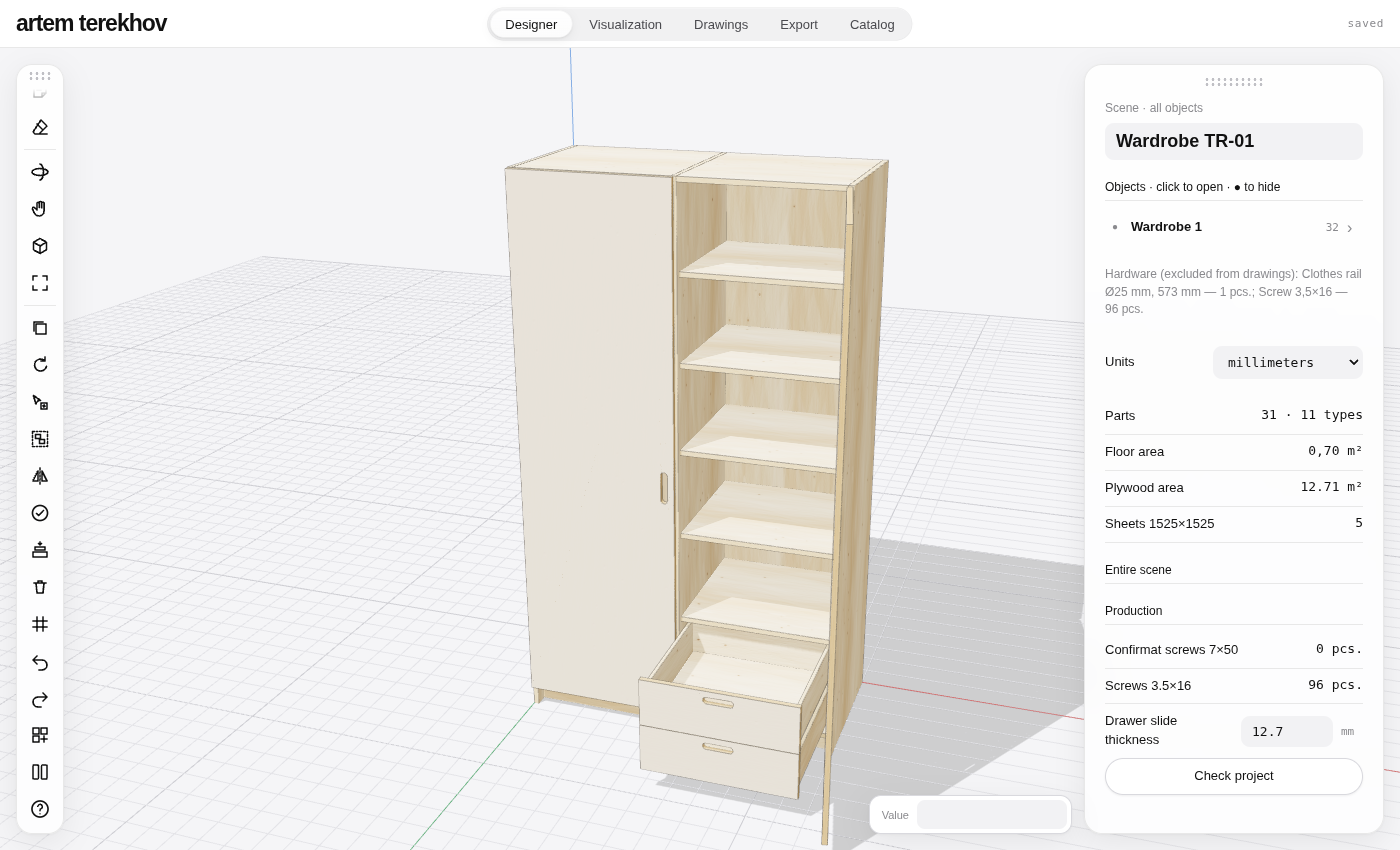
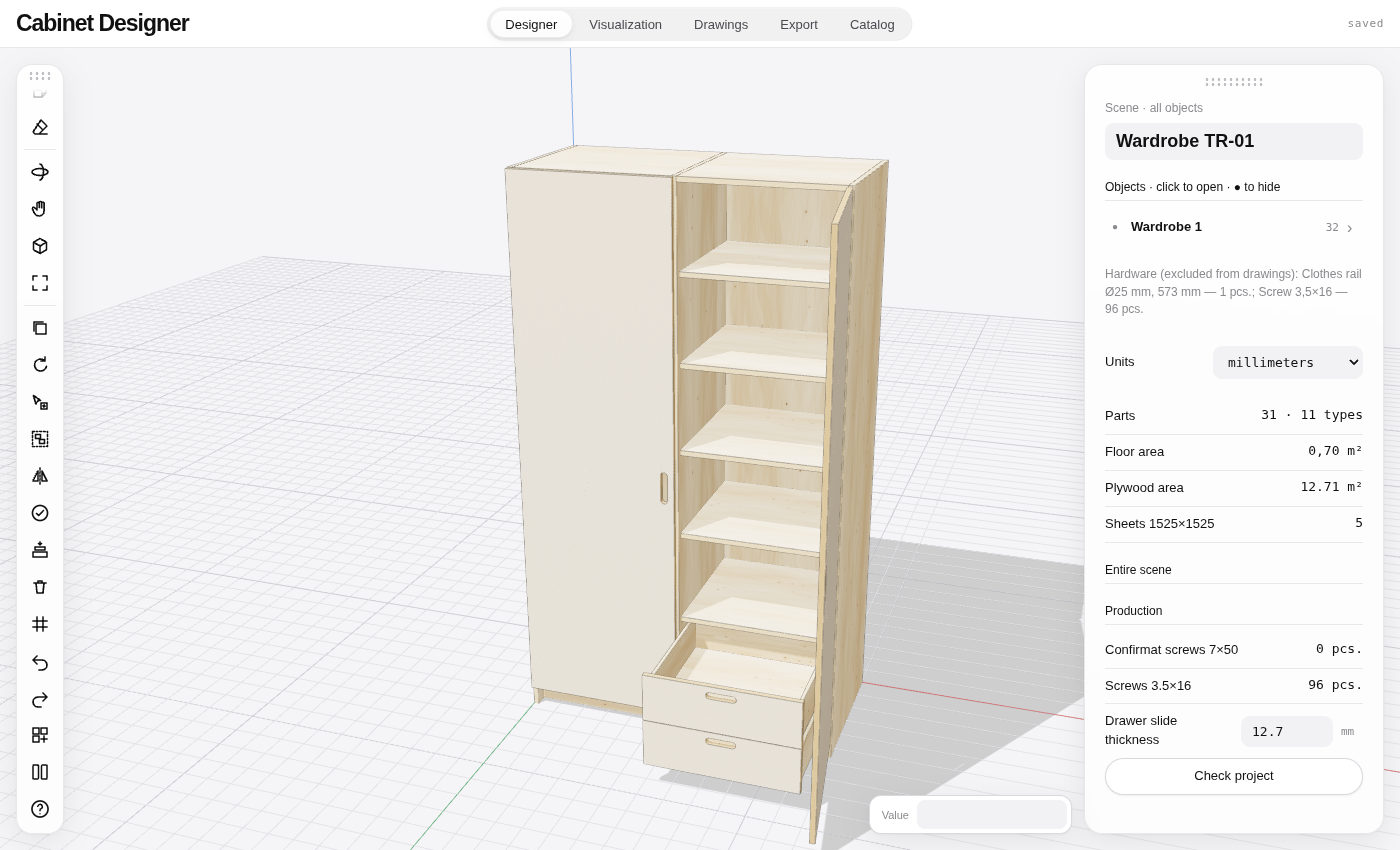
Remove personal branding from cabinet designer

diff --git a/index.html b/index.html
@@ -5,7 +5,7 @@
 <meta name="viewport" content="width=device-width,initial-scale=1,viewport-fit=cover">
 </head>
 <body>
-<title>Artem Terekhov Bureau</title>
+<title>Cabinet Designer</title>
 <meta name="claude:viewport-fit-sides" content="cover">
 <link rel="preconnect" href="https://fonts.googleapis.com">
 <link rel="preconnect" href="https://fonts.gstatic.com" crossorigin>
@@ -286,9 +286,9 @@ div.cf{grid-template-columns:1fr 2fr}.cseg{grid-template-columns:repeat(auto-fit
 
 <div class="app">
 <header>
-  <div class="brand" aria-label="artem terekhov">
+  <div class="brand" aria-label="Cabinet Designer">
 
-    <span class="wm">artem terekhov</span>
+    <span class="wm">Cabinet Designer</span>
   </div>
   <nav aria-label="Sections">
     <a href="#build" data-v="build">Designer</a>
@@ -2416,9 +2416,9 @@ function buildDrawing(forFile,nestOnly){const P=BRD();if(!P.length)return{svg:`<
   if(OV.length){oy+=rowH+k*1.5;rowH=0;OV.forEach(t=>{o.push(Tx(fx,oy,k*.9,'⚠ '+t,'s'));oy+=k*1.5})}
   secClose(oy+rowH-k*1.5);oy+=rowH+G*.4;
   if(nestOnly){o.push(Tx(fx,oy,k*1.1,'Parts','mh'));oy+=k*1.8;parts.forEach(pt=>{o.push(`<rect x="${f1(fx)}" y="${f1(oy-k*.9)}" width="${f1(k*1.1)}" height="${f1(k*1.1)}" style="fill:${NPAL[(pt.no-1)%NPAL.length]};stroke:#999"/>`,Tx(fx+k*1.7,oy,k*.9,`${pt.no} — ${pt.names.join(', ')} · ${pt.L} × ${pt.W} × ${pt.T} mm · ${MATS[pt.mat].short} · ${pt.qty} pcs.`,'s'));oy+=k*1.5});oy+=k*2}
-  const tw=k*26,th=k*8.4,tx=Math.max(ex-tw,fx),dt=new Date().toLocaleDateString('ru-RU');
+  const tw=k*26,th=k*8.4,tx=Math.max(ex-tw,fx),dt=new Date().toLocaleDateString('en-US');
   o.push(`<rect class="tb" x="${f1(tx)}" y="${f1(oy)}" width="${f1(tw)}" height="${f1(th)}"/><line class="tb" x1="${f1(tx)}" y1="${f1(oy+k*3)}" x2="${f1(tx+tw)}" y2="${f1(oy+k*3)}"/><line class="tb" x1="${f1(tx+tw*.55)}" y1="${f1(oy+k*3)}" x2="${f1(tx+tw*.55)}" y2="${f1(oy+th)}"/>`);
-  o.push(Tx(tx+k,oy+k*2,k*1.3,'artem terekhov','h'),Tx(tx+k,oy+k*4.8,k*.95,state.name,'s'),Tx(tx+k,oy+k*6.6,k*.8,`Parts: ${BRD().length}`,'s'),Tx(tx+tw*.55+k,oy+k*4.8,k*.8,'Dimensions in mm','s'),Tx(tx+tw*.55+k,oy+k*6.6,k*.8,dt,'s'));
+  o.push(Tx(tx+k,oy+k*2,k*1.3,'Cabinet Designer','h'),Tx(tx+k,oy+k*4.8,k*.95,state.name,'s'),Tx(tx+k,oy+k*6.6,k*.8,`Parts: ${BRD().length}`,'s'),Tx(tx+tw*.55+k,oy+k*4.8,k*.8,'Dimensions in mm','s'),Tx(tx+tw*.55+k,oy+k*6.6,k*.8,dt,'s'));
   oy+=th;ex=Math.max(ex,tx+tw);
   {const Wd=ex+k*4;for(let i=SEC.length-1;i>=0;i--){const S=SEC[i];if(S.y1==null)continue;o.splice(S.i,0,`<rect class="secbg" x="${f1(-k*1.6)}" y="${f1(S.y0-k*2.8)}" width="${f1(Wd)}" height="${f1(S.y1-S.y0+k*2.8)}" rx="${f1(k*1.2)}"/>`)}}
   const box=[-k*2,-k*3,ex+k*6,oy+k*5];
@@ -2466,11 +2466,11 @@ function toDAE(){const mats=Object.entries(MATS);let geo='',nodes='';
     geo+=`<geometry id="g${i}" name="${esc(p.name)}"><mesh><source id="g${i}-p"><float_array id="g${i}-pa" count="24">${c}</float_array><technique_common><accessor source="#g${i}-pa" count="8" stride="3"><param name="X" type="float"/><param name="Y" type="float"/><param name="Z" type="float"/></accessor></technique_common></source><source id="g${i}-n"><float_array id="g${i}-na" count="18">${NRM.flat().join(' ')}</float_array><technique_common><accessor source="#g${i}-na" count="6" stride="3"><param name="X" type="float"/><param name="Y" type="float"/><param name="Z" type="float"/></accessor></technique_common></source><vertices id="g${i}-v"><input semantic="POSITION" source="#g${i}-p"/></vertices><triangles material="m_${p.mat}" count="12"><input semantic="VERTEX" source="#g${i}-v" offset="0"/><input semantic="NORMAL" source="#g${i}-n" offset="1"/><p>${tri}</p></triangles></mesh></geometry>`;
     nodes+=`<node id="n${i}" name="${esc(p.name)}_${thick(p)}mm"><instance_geometry url="#g${i}"><bind_material><technique_common><instance_material symbol="m_${p.mat}" target="#m_${p.mat}"/></technique_common></bind_material></instance_geometry></node>`});
   return`<?xml version="1.0" encoding="utf-8"?>
-<COLLADA xmlns="http://www.collada.org/2005/11/COLLADASchema" version="1.4.1"><asset><contributor><authoring_tool>Artyom Terekhov Bureau</authoring_tool></contributor><unit name="millimeter" meter="0.001"/><up_axis>Y_UP</up_axis></asset>
+<COLLADA xmlns="http://www.collada.org/2005/11/COLLADASchema" version="1.4.1"><asset><contributor><authoring_tool>Cabinet Designer</authoring_tool></contributor><unit name="millimeter" meter="0.001"/><up_axis>Y_UP</up_axis></asset>
 <library_effects>${mats.map(([k,m])=>`<effect id="e_${k}"><profile_COMMON><technique sid="c"><lambert><diffuse><color>${m.col.join(' ')} 1</color></diffuse></lambert></technique></profile_COMMON></effect>`).join('')}</library_effects>
 <library_materials>${mats.map(([k,m])=>`<material id="m_${k}" name="${k}"><instance_effect url="#e_${k}"/></material>`).join('')}</library_materials>
 <library_geometries>${geo}</library_geometries><library_visual_scenes><visual_scene id="s" name="${esc(state.name)}">${nodes}</visual_scene></library_visual_scenes><scene><instance_visual_scene url="#s"/></scene></COLLADA>`}
-function toOBJ(){let s='# Artyom Terekhov Bureau · mm\nmtllib model.mtl\n',vi=1;BRD().forEach(p=>{s+=`o ${p.name.replace(/\s/g,'_')}_${p.id}\nusemtl ${p.mat}\n`;cornersMM(p).forEach(c=>s+=`v ${c.join(' ')}\n`);FACES.forEach(f=>s+=`f ${f.map(i=>i+vi).join(' ')}\n`);vi+=8});
+function toOBJ(){let s='# Cabinet Designer · mm\nmtllib model.mtl\n',vi=1;BRD().forEach(p=>{s+=`o ${p.name.replace(/\s/g,'_')}_${p.id}\nusemtl ${p.mat}\n`;cornersMM(p).forEach(c=>s+=`v ${c.join(' ')}\n`);FACES.forEach(f=>s+=`f ${f.map(i=>i+vi).join(' ')}\n`);vi+=8});
   return{obj:s,mtl:Object.entries(MATS).map(([k,m])=>`newmtl ${k}\nKd ${m.col.join(' ')}\n`).join('\n')}}
 function dxf(lines,texts){let s='0\nSECTION\n2\nHEADER\n9\n$INSUNITS\n70\n4\n0\nENDSEC\n0\nSECTION\n2\nENTITIES\n';
   lines.forEach(([x1,y1,x2,y2,l])=>s+=`0\nLINE\n8\n${l}\n10\n${x1}\n20\n${y1}\n30\n0\n11\n${x2}\n21\n${y2}\n31\n0\n`);texts.forEach(([x,y,h,t,l])=>s+=`0\nTEXT\n8\n${l}\n10\n${x}\n20\n${y}\n30\n0\n40\n${h}\n1\n${t}\n`);return s+'0\nENDSEC\n0\nEOF\n'}
@@ -2482,18 +2482,18 @@ function detailsDXF(){const L=[],T=[];let x=0;partsList().forEach(p=>{L.push(...
 function nestDXF(){const L=[],T=[];let y=0;nestAll().forEach(g=>g.sheets.forEach((s,i)=>{L.push(...rectL(0,y,g.SW,g.SH,'SHEET'));T.push([0,y+g.SH+30,30,`${g.T}mm ${tr[g.mat]} sheet ${i+1}/${g.sheets.length}`,'TEXT']);
   s.parts.forEach(p=>{const py=y+g.SH-p.y-p.h;L.push(...rectL(p.x,py,p.w,p.h,'CUT'));T.push([p.x+10,py+10,Math.min(30,p.h/3),`D${p.no}`,'TEXT'])});y+=g.SH+200}));return dxf(L,T)}
 function toRuby(){const C=(x,y,z)=>`Geom::Point3d.new(${r4(x)}.mm,${r4(-z)}.mm,${r4(y)}.mm)`;const col={birch:[226,205,164],oiled:[214,174,122],black:[42,40,38]};
-  let rb=`# artem terekhov — model for SketchUp: ${state.name}\n# SketchUp → Window → Ruby Console → load 'path/to/model.rb', then File → Save As .skp\nmodel=Sketchup.active_model\nmodel.start_operation('artem terekhov',true)\nents=model.active_entities\nmats={}\n`;
-  Object.entries(MATS).forEach(([k,m])=>{rb+=`mats['${k}']=(model.materials['AT ${m.short}']||model.materials.add('AT ${m.short}'))\nmats['${k}'].color=Sketchup::Color.new(${col[k].join(',')})\n`});
-  rb+=`def at_face(ents,pts,out)\n  f=ents.add_face(pts)\n  f.reverse! if f.normal.dot(out)<0\n  f\nend\n`;
+  let rb=`# Cabinet Designer — model for SketchUp: ${state.name}\n# SketchUp → Window → Ruby Console → load 'path/to/model.rb', then File → Save As .skp\nmodel=Sketchup.active_model\nmodel.start_operation('Cabinet Designer',true)\nents=model.active_entities\nmats={}\n`;
+  Object.entries(MATS).forEach(([k,m])=>{rb+=`mats['${k}']=(model.materials['Cabinet ${m.short}']||model.materials.add('Cabinet ${m.short}'))\nmats['${k}'].color=Sketchup::Color.new(${col[k].join(',')})\n`});
+  rb+=`def cabinet_face(ents,pts,out)\n  f=ents.add_face(pts)\n  f.reverse! if f.normal.dot(out)<0\n  f\nend\n`;
   const OUT={x:'Geom::Vector3d.new(1,0,0)',y:'Geom::Vector3d.new(0,0,1)',z:'Geom::Vector3d.new(0,-1,0)'};
   BRD().forEach(p=>{const n=p.name.replace(/'/g,"\\'");rb+=`g=ents.add_group\ng.name='${n} ${thick(p)}mm'\ne=g.entities\n`;
-    rb+=`f=at_face(e,[${C(p.x,p.y,p.z)},${C(p.x+p.w,p.y,p.z)},${C(p.x+p.w,p.y,p.z+p.d)},${C(p.x,p.y,p.z+p.d)}],Geom::Vector3d.new(0,0,-1))\nf.pushpull(-${r4(p.h)}.mm)\n`;
+    rb+=`f=cabinet_face(e,[${C(p.x,p.y,p.z)},${C(p.x+p.w,p.y,p.z)},${C(p.x+p.w,p.y,p.z+p.d)},${C(p.x,p.y,p.z+p.d)}],Geom::Vector3d.new(0,0,-1))\nf.pushpull(-${r4(p.h)}.mm)\n`;
     (p.feat||[]).filter(f=>Math.abs(f.depth)>0.01).forEach(f=>{const [u,v]=AX.filter(q=>q!==f.a),T=p[SZ[f.a]],F=f.s>0?p[f.a]+T:p[f.a];const P=(uu,vv)=>{const o={};o[u]=p[u]+uu;o[v]=p[v]+vv;o[f.a]=F;return C(o.x,o.y,o.z)};
-      const out=f.s>0?OUT[f.a]:OUT[f.a]+'.reverse';rb+=f.c?`ed=e.add_circle(${P((f.u0+f.u1)/2,(f.v0+f.v1)/2)},${OUT[f.a]},${r4((f.u1-f.u0)/2)}.mm,48)\nf=ed[0].faces.min_by{|x|x.area}\nf.reverse! if f.normal.dot(${out})<0\nf.pushpull(`:`f=at_face(e,[${P(f.u0,f.v0)},${P(f.u1,f.v0)},${P(f.u1,f.v1)},${P(f.u0,f.v1)}],${out})\nf.pushpull(${f.depth>0?'-':''}${r4(Math.min(Math.abs(f.depth),T))}.mm)\n`});
+      const out=f.s>0?OUT[f.a]:OUT[f.a]+'.reverse';rb+=f.c?`ed=e.add_circle(${P((f.u0+f.u1)/2,(f.v0+f.v1)/2)},${OUT[f.a]},${r4((f.u1-f.u0)/2)}.mm,48)\nf=ed[0].faces.min_by{|x|x.area}\nf.reverse! if f.normal.dot(${out})<0\nf.pushpull(`:`f=cabinet_face(e,[${P(f.u0,f.v0)},${P(f.u1,f.v0)},${P(f.u1,f.v1)},${P(f.u0,f.v1)}],${out})\nf.pushpull(${f.depth>0?'-':''}${r4(Math.min(Math.abs(f.depth),T))}.mm)\n`});
     rb+=`g.material=mats['${p.mat}']\n`;if(p.rot){const c=pCenter(p),q=rotQ(p);if(q.w<0)q.set(-q.x,-q.y,-q.z,-q.w);const an=2*Math.acos(Math.min(1,q.w)),sn=Math.sin(an/2)||1,f=v=>(+v.toFixed(9));rb+=`g.transform!(Geom::Transformation.rotation(${C(c.x*1000,c.y*1000,c.z*1000)},Geom::Vector3d.new(${f(q.x/sn)},${f(-q.z/sn)},${f(q.y/sn)}),${f(an*180/Math.PI)}.degrees))\n`}});
   rb+=`model.commit_operation\nUI.messagebox('Done: ${BRD().length} parts. Save the model as .skp')\n`;return rb}
 function toCSV(){const rows=[['No.','Name','Length, mm','Width, mm','Thickness, mm','Quantity','Material','Area, m²']];partsList().forEach(p=>rows.push(['P'+p.no,p.names.join(', '),p.L,p.W,p.T,p.qty,MATS[p.mat].name+(p.cn?', '+p.cn:''),(p.L*p.W*p.qty/1e6).toFixed(3).replace('.',',')]));return''+rows.map(r=>r.map(c=>`"${String(c).replace(/"/g,'""')}"`).join(';')).join('\r\n')}
-const projJSON=()=>JSON.stringify({app:'bureau-tereKhov',version:2,name:state.name,panels:state.panels,guides:state.guides,prods:state.prods||[],conf:state.conf||null},null,1);
+const projJSON=()=>JSON.stringify({app:'cnc-cabinet-designer',version:2,name:state.name,panels:state.panels,guides:state.guides,prods:state.prods||[],conf:state.conf||null},null,1);
 const CRC=(()=>{const t=new Uint32Array(256);for(let n=0;n<256;n++){let c=n;for(let k=0;k<8;k++)c=c&1?0xEDB88320^(c>>>1):c>>>1;t[n]=c>>>0}return t})();
 function crc32(u){let c=0xFFFFFFFF;for(let i=0;i<u.length;i++)c=CRC[(c^u[i])&255]^(c>>>8);return(c^0xFFFFFFFF)>>>0}
 function zip(files){const enc=new TextEncoder(),parts=[],cen=[];let off=0;
@@ -2541,9 +2541,8 @@ $('#openFile').addEventListener('change',e=>{const f=e.target.files[0];if(!f)ret
 
 
 /* ---------- PDF product sheet ---------- */
-const MARK=new Path2D('M20 112 C36 112 42 98 47 84 L70 20 L96 98 C99 108 108 109 114 100 L138 64 H198 M170 30 L151 106 C148 116 157 119 164 113');
 const PF=(w,sz)=>`${w} ${sz}px Onest, "Helvetica Neue", Arial, sans-serif`;
-function drawLogo(g,x,y,h){g.save();g.fillStyle='#111';g.font=PF(700,h*0.82);if('letterSpacing' in g)g.letterSpacing=(-h*0.04)+'px';g.fillText('artem terekhov',x,y-h*0.12);g.restore()}
+function drawLogo(g,x,y,h){g.save();g.fillStyle='#111';g.font=PF(700,h*0.82);if('letterSpacing' in g)g.letterSpacing=(-h*0.04)+'px';g.fillText('Cabinet Designer',x,y-h*0.12);g.restore()}
 function wrap(g,t,x,y,w,lh,font){g.font=font;let line='';for(const word of t.split(' ')){const test=line?line+' '+word:word;if(g.measureText(test).width>w&&line){g.fillText(line,x,y);y+=lh;line=word}else line=test}if(line)g.fillText(line,x,y);return y+lh}
 function drawViews(g,x0,y0,wA,hA){const b=bbox(),W=b.x1-b.x0,H=b.y1-b.y0,D=b.z1-b.z0,gap=34,k=Math.min((wA-2*gap)/(2*W+D),(hA-26)/Math.max(H,D));
   const box=(x,y,w,h)=>{g.fillStyle='#fff';g.fillRect(x,y,w,h);g.strokeRect(x,y,w,h)};g.strokeStyle='#111';g.lineWidth=0.55;
@@ -2582,7 +2581,7 @@ function sheetPages(imgs){const PW=595.28,PH=841.89,S=2480/PW,M=45,pages=[];
   const area=BRD().reduce((a,p)=>{const d=AX.filter(q=>q!==p.t).map(q=>p[SZ[q]]);return a+d[0]*d[1]},0)/1e6;
   const thks=[...new Set(BRD().map(thick))].sort((a,c)=>c-a),mats=[...new Set(BRD().map(p=>p.mat))];
   let g=newPage();g.fillStyle='#111';
-  g.font=PF(600,19);g.fillText(state.name,M,72);g.font=PF(300,14);g.fillText('Plywood furniture',M,90);g.font=PF(400,8);g.fillText(`Design: Artyom Terekhov, ${new Date().getFullYear()}`,M,110);
+  g.font=PF(600,19);g.fillText(state.name,M,72);g.font=PF(300,14);g.fillText('Plywood furniture',M,90);g.font=PF(400,8);g.fillText(`Generated with Cabinet Designer · ${new Date().getFullYear()}`,M,110);
   wrap(g,`${state.name} consists of ${BRD().length} parts birch plywood with thicknesses ${thks.join(', ')} mm. Dimensions ${nf(W)} × ${nf(D)} × ${nf(H)} mm. Parts are cut from ${sheets} ${sheets===1?'sheet':'sheets'} ${state.sheet.replace('x','×')} mm, plywood area ${area.toFixed(2)} m². The face veneer grain runs along the long side of each part.`,M,132,205,11.5,PF(400,8));
   drawViews(g,285,58,PW-M-285,120);
   const gap=10,iw=(PW-2*M-2*gap)/3,ih=iw*imgs[0].height/imgs[0].width;g.font=PF(400,7);g.fillStyle='#111';

diff --git a/README.md b/README.md
@@ -1,8 +1,6 @@
-# Terekhov Bureau — plywood furniture designer
+# Cabinet Designer
 
 Design plywood furniture in the browser. Draw, cut, drill — get drawings and a cutting map.
-
-→ **https://qwekurasa.github.io/terekhov-bureau/**
 
 ![Kitchen project with drawers open](docs/kitchen.png)
 
@@ -23,7 +21,7 @@ Design plywood furniture in the browser. Draw, cut, drill — get drawings and a
 ## Run locally
 
 ```bash
-git clone https://github.com/qwekurasa/terekhov-bureau && cd terekhov-bureau
+git clone https://github.com/NRux/cnc-cabinet-designer.git && cd cnc-cabinet-designer
 python3 -m http.server 8080
 ```
 
